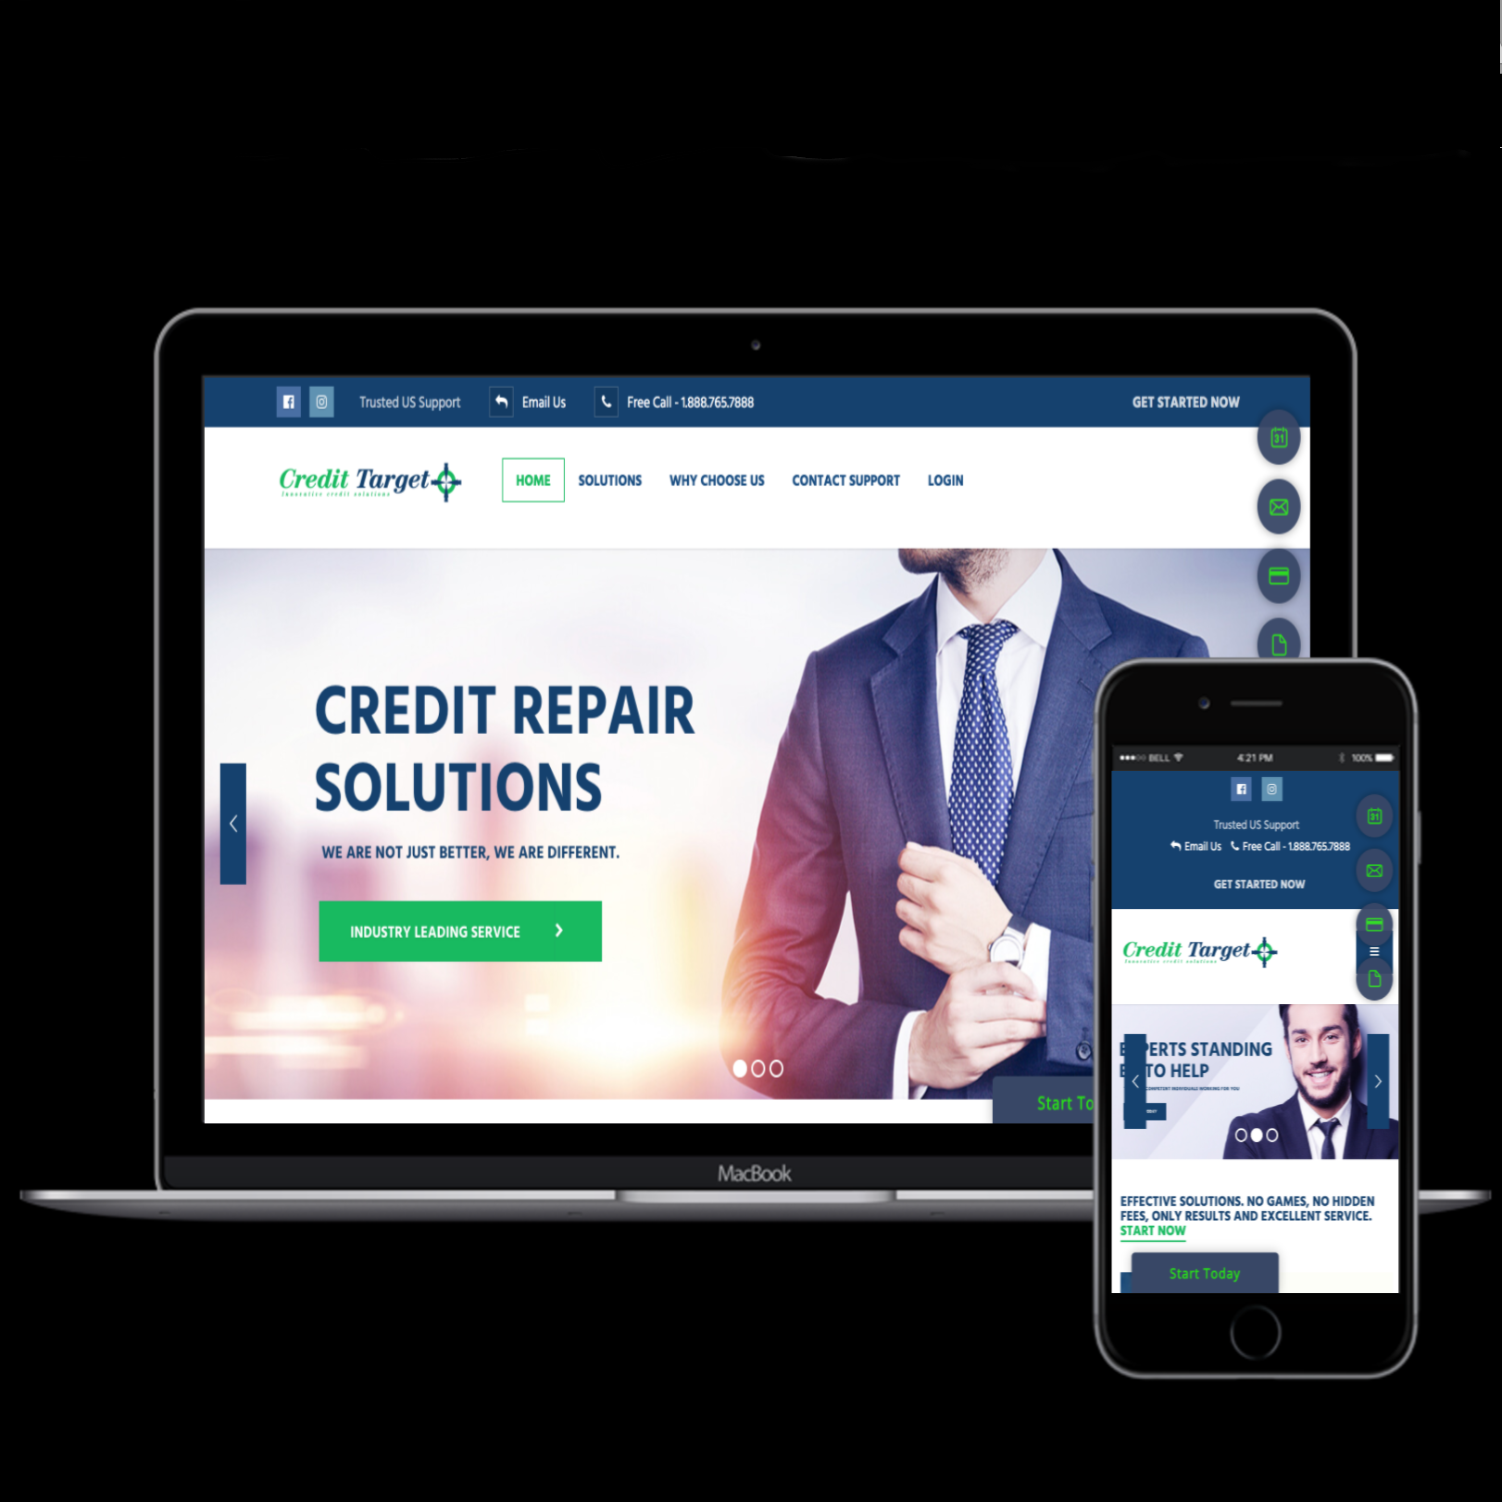
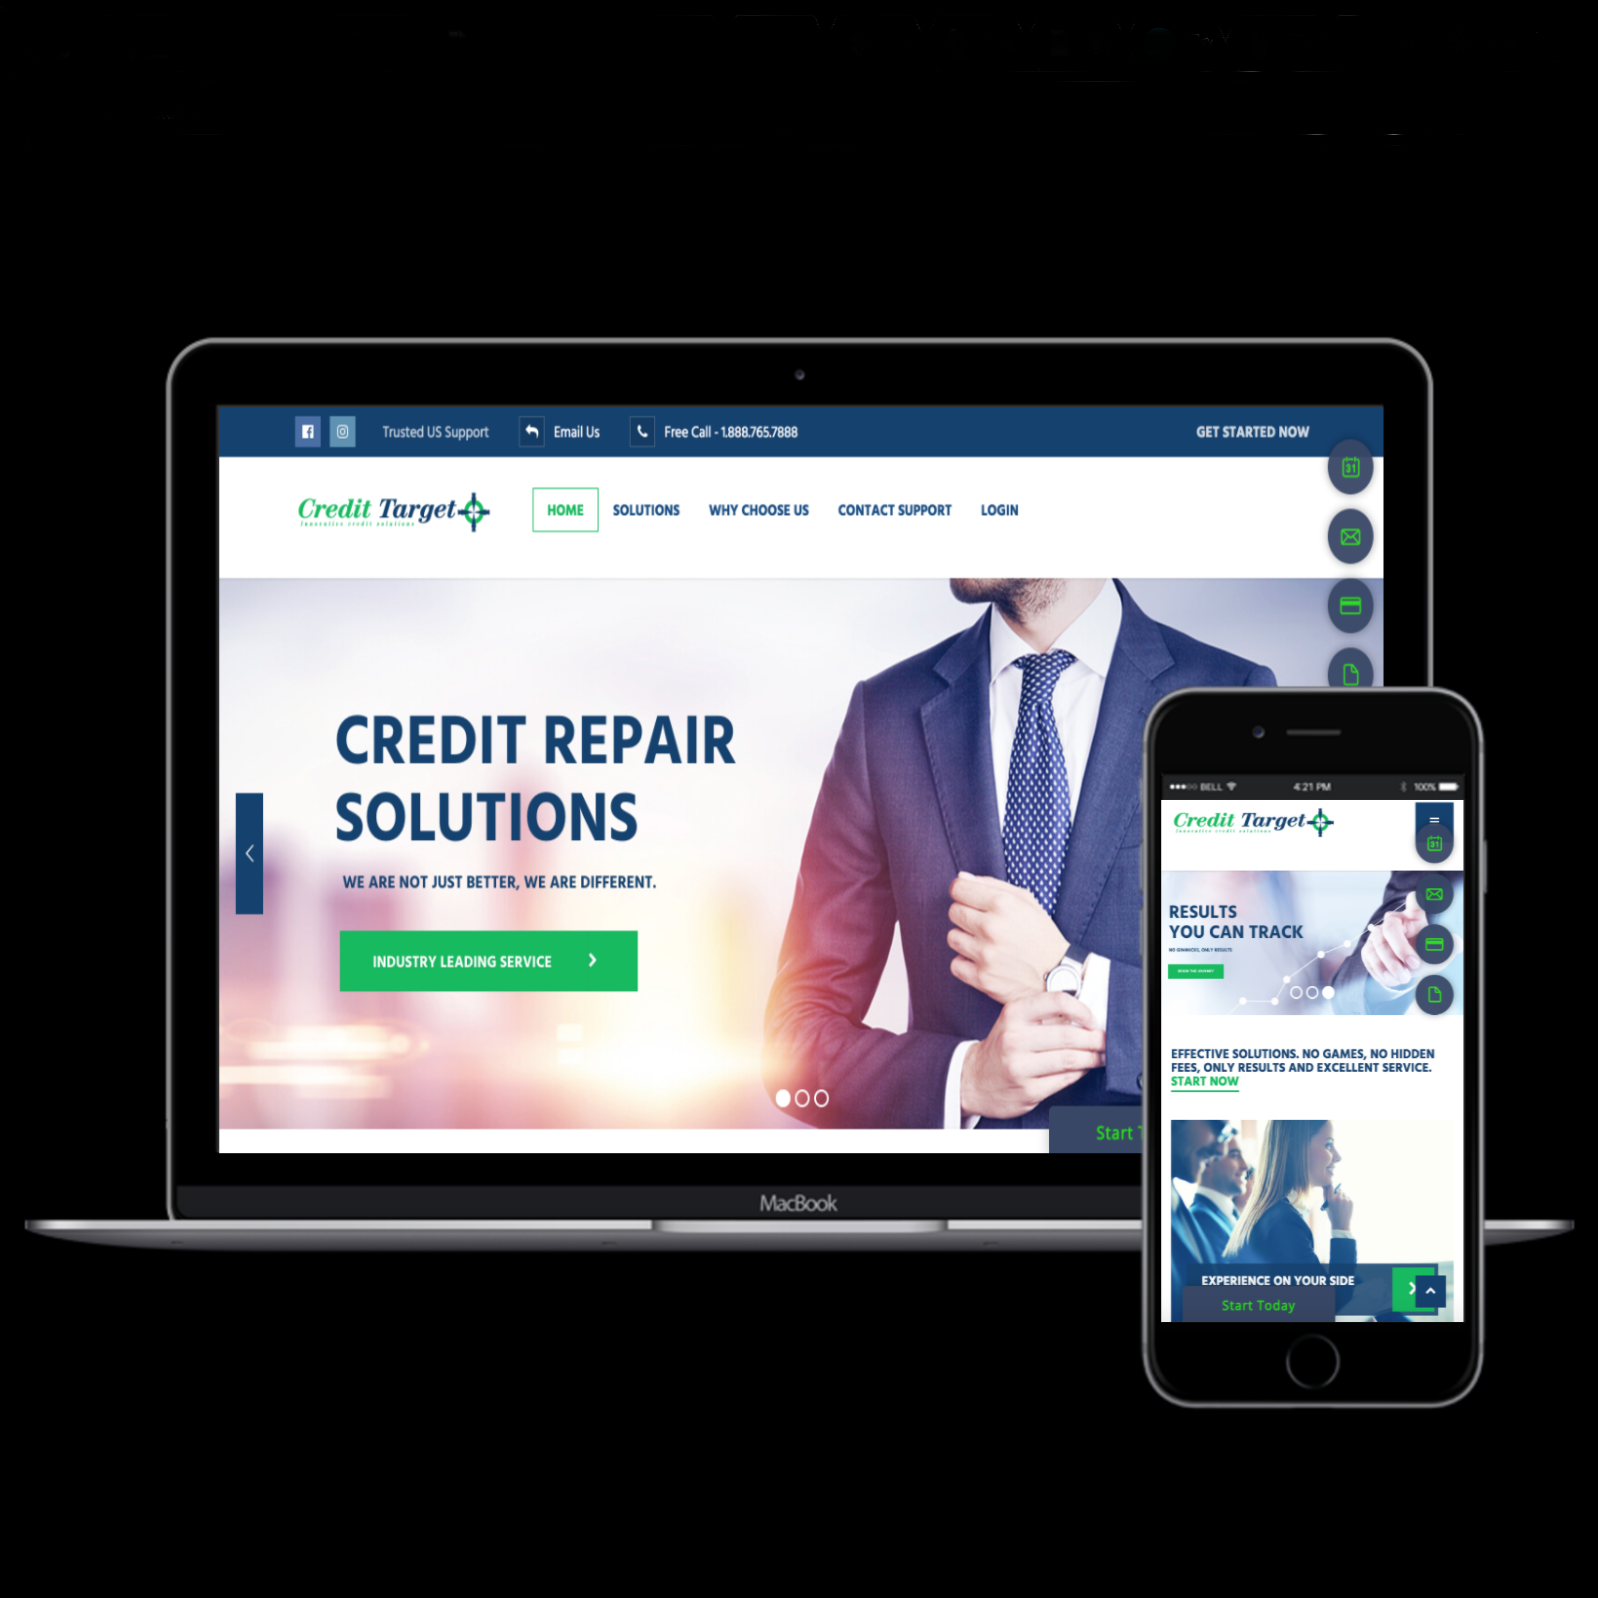
portfoliio

Changed region(s): [[0.0, 0.1838, 1.0, 0.9188]]

diff --git a/public/portfolio.html b/public/portfolio.html
@@ -760,7 +760,7 @@
                                     data-responsive_offset="on" 
 
                                     
-                                    style="z-index: 6;"><img src="assets/images/gpweb.png" alt="" width="653" height="408" data-ww="['653px','653px','330px','230px']" data-hh="['408px','408px','206px','144px']" data-no-retina> 
+                                    style="z-index: 6;"><img src="assets/images/rapackeweb.png" alt="" width="653" height="408" data-ww="['653px','653px','330px','230px']" data-hh="['408px','408px','206px','144px']" data-no-retina> 
                                 </div>
 
                                 <!-- LAYER NR. 3 -->
@@ -838,7 +838,7 @@
                                     data-responsive_offset="on" 
 
                                     
-                                    style="z-index: 10;"><img src="assets/images/gatorparkphonemockup.png" alt="" width="170" height="286" data-ww="['170px','170px','85px','66px']" data-hh="['286px','286px','143px','111px']" data-no-retina> 
+                                    style="z-index: 10;"><img src="assets/images/rapackephone.png" alt="" width="170" height="286" data-ww="['170px','170px','85px','66px']" data-hh="['286px','286px','143px','111px']" data-no-retina> 
                                 </div>
 
                                 <!-- LAYER NR. 7 -->
@@ -963,7 +963,7 @@
                         <li><a href="#" data-filter=".logo-design">Logo Design</a></li>
                     </ul>
                 </div><!-- end .container -->
-                 <div id="portfolio-item-container" class="popup-gallery max-col-5" data-layoutmode="fitRows">
+                 <div id="portfolio-item-container" class="popup-gallery max-col-4" data-layoutmode="fitRows">
                     <div class="portfolio-item portfolio-anim web-design wordpress">
                         <figure>
                             <img src="assets/images/credittargetmockup.png" width="480px" height="100%" alt="Portfolio Name">
@@ -1002,10 +1002,10 @@
 
                     <div class="portfolio-item portfolio-anim web-design wordpress">
                         <figure>
-                            <img src="assets/images/portfolio/grid/item3.jpg" alt="Portfolio Name">
+                            <img src="assets/images/hotelstmichelmockup.png" alt="Portfolio Name">
                             <figcaption>
-                                <a href="assets/images/portfolio/grid/item3.jpg" data-thumb="assets/images/portfolio/grid/item3.jpg" class="zoom-btn"><i class="fa fa-search"></i></a>
-                                <a href="single-portfolio.html" class="link-btn"><i class="fa fa-link"></i></a>
+                                <a href="assets/images/hotelstmichelmockup.png" data-thumb="assets/images/hotelstmichelmockup.png" class="zoom-btn"><i class="fa fa-search"></i></a>
+                                <a href="http://www.hotelstmichel.com" class="link-btn"><i class="fa fa-link"></i></a>
                             </figcaption>
                         </figure>
                         <div class="portfolio-meta">
@@ -1020,10 +1020,10 @@
 
                     <div class="portfolio-item portfolio-anim web-design wordpress">
                         <figure>
-                            <img src="assets/images/portfolio/grid/item4.jpg" alt="Portfolio Name">
+                            <img src="assets/images/steelbodymockup.png" alt="Portfolio Name">
                             <figcaption>
-                                <a href="assets/images/portfolio/grid/item4.jpg" data-thumb="assets/images/portfolio/grid/item4.jpg" class="zoom-btn"><i class="fa fa-search"></i></a>
-                                <a href="single-portfolio.html" class="link-btn"><i class="fa fa-link"></i></a>
+                                <a href="assets/images/steelbodymockup.png" data-thumb="assets/images/steelbodymockup.png" class="zoom-btn"><i class="fa fa-search"></i></a>
+                                <a href="http://www.steelbodysupplements.com" class="link-btn"><i class="fa fa-link"></i></a>
                             </figcaption>
                         </figure>
                         <div class="portfolio-meta">
@@ -1038,10 +1038,10 @@
 
                     <div class="portfolio-item portfolio-anim logo-design video marketing">
                         <figure>
-                            <img src="assets/images/portfolio/grid/item5.jpg" alt="Portfolio Name">
+                            <img src="assets/images/ecpamockup.png" alt="Portfolio Name">
                             <figcaption>
-                                <a href="assets/images/portfolio/grid/item5.jpg" data-thumb="assets/images/portfolio/grid/item5.jpg" class="zoom-btn"><i class="fa fa-search"></i></a>
-                                <a href="single-portfolio.html" class="link-btn"><i class="fa fa-link"></i></a>
+                                <a href="assets/images/ecpamockup.png" data-thumb="assets/images/ecpamockup.png" class="zoom-btn"><i class="fa fa-search"></i></a>
+                                <a href="http://www.ecpaclaims.com" class="link-btn"><i class="fa fa-link"></i></a>
                             </figcaption>
                         </figure>
                         <div class="portfolio-meta">
@@ -1056,9 +1056,9 @@
 
                     <div class="portfolio-item portfolio-anim illustration wordpress">
                         <figure>
-                            <img src="assets/images/portfolio/grid/item6.jpg" alt="Portfolio Name">
+                            <img src="assets/images/rapackemockup.png" alt="Portfolio Name">
                             <figcaption>
-                                <a href="assets/images/portfolio/grid/item6.jpg" data-thumb="assets/images/portfolio/grid/item6.jpg" class="zoom-btn"><i class="fa fa-search"></i></a>
+                                <a href="assets/images/rapackemockup.png" data-thumb="assets/images/rapackemockup.png" class="zoom-btn"><i class="fa fa-search"></i></a>
                                 <a href="single-portfolio.html" class="link-btn"><i class="fa fa-link"></i></a>
                             </figcaption>
                         </figure>
